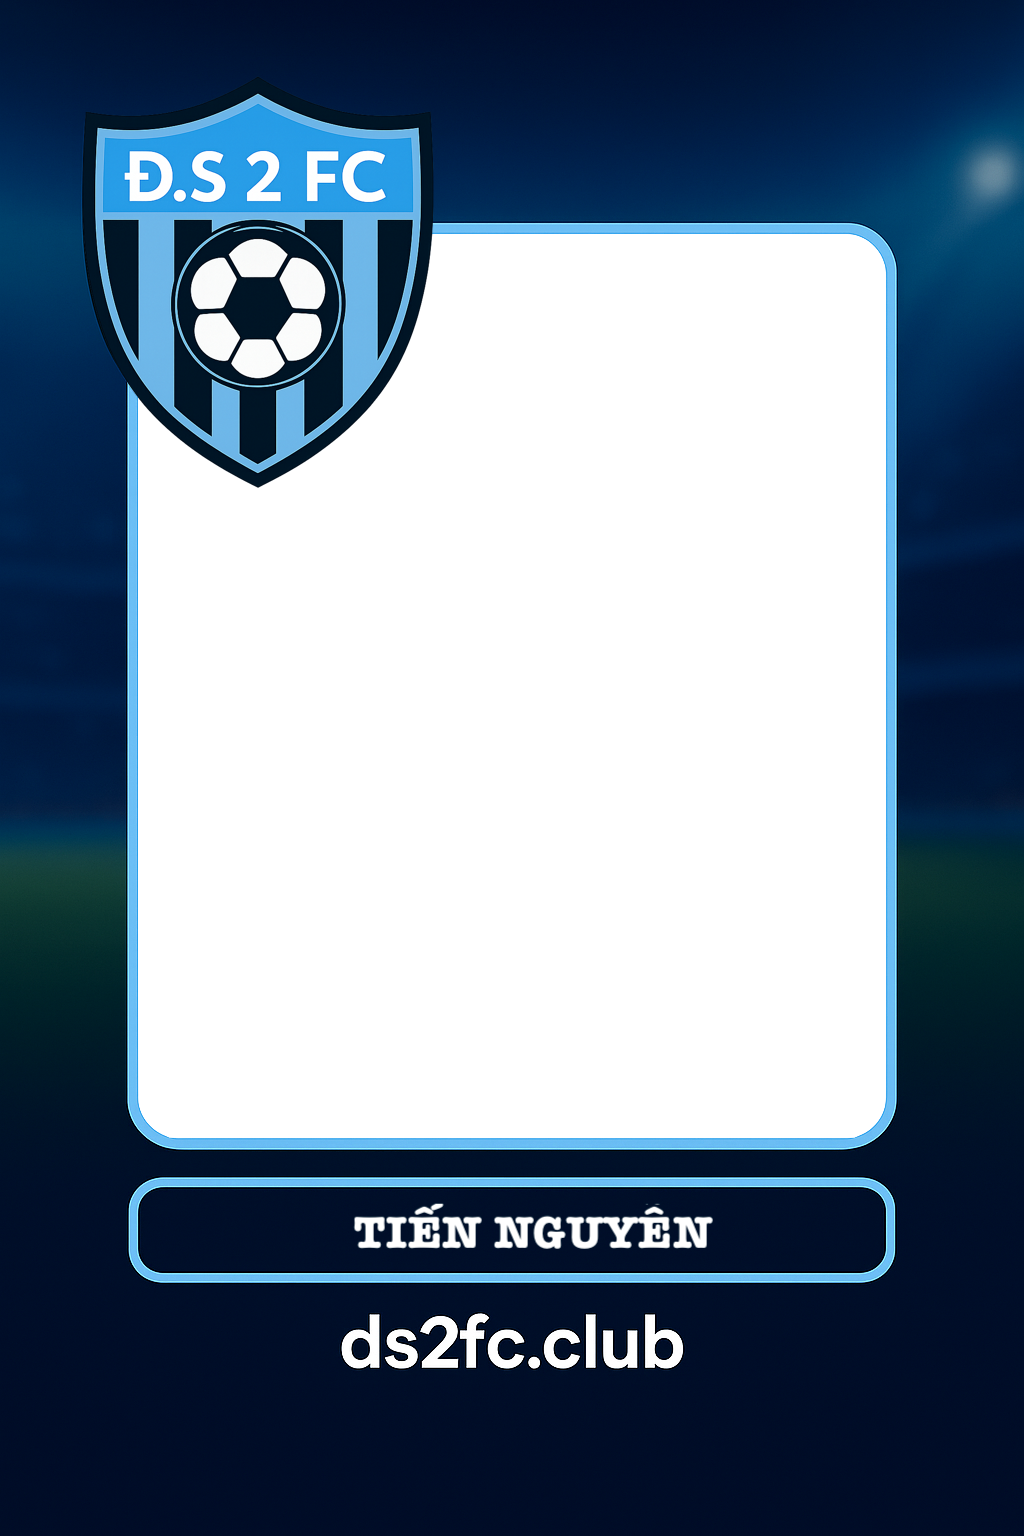
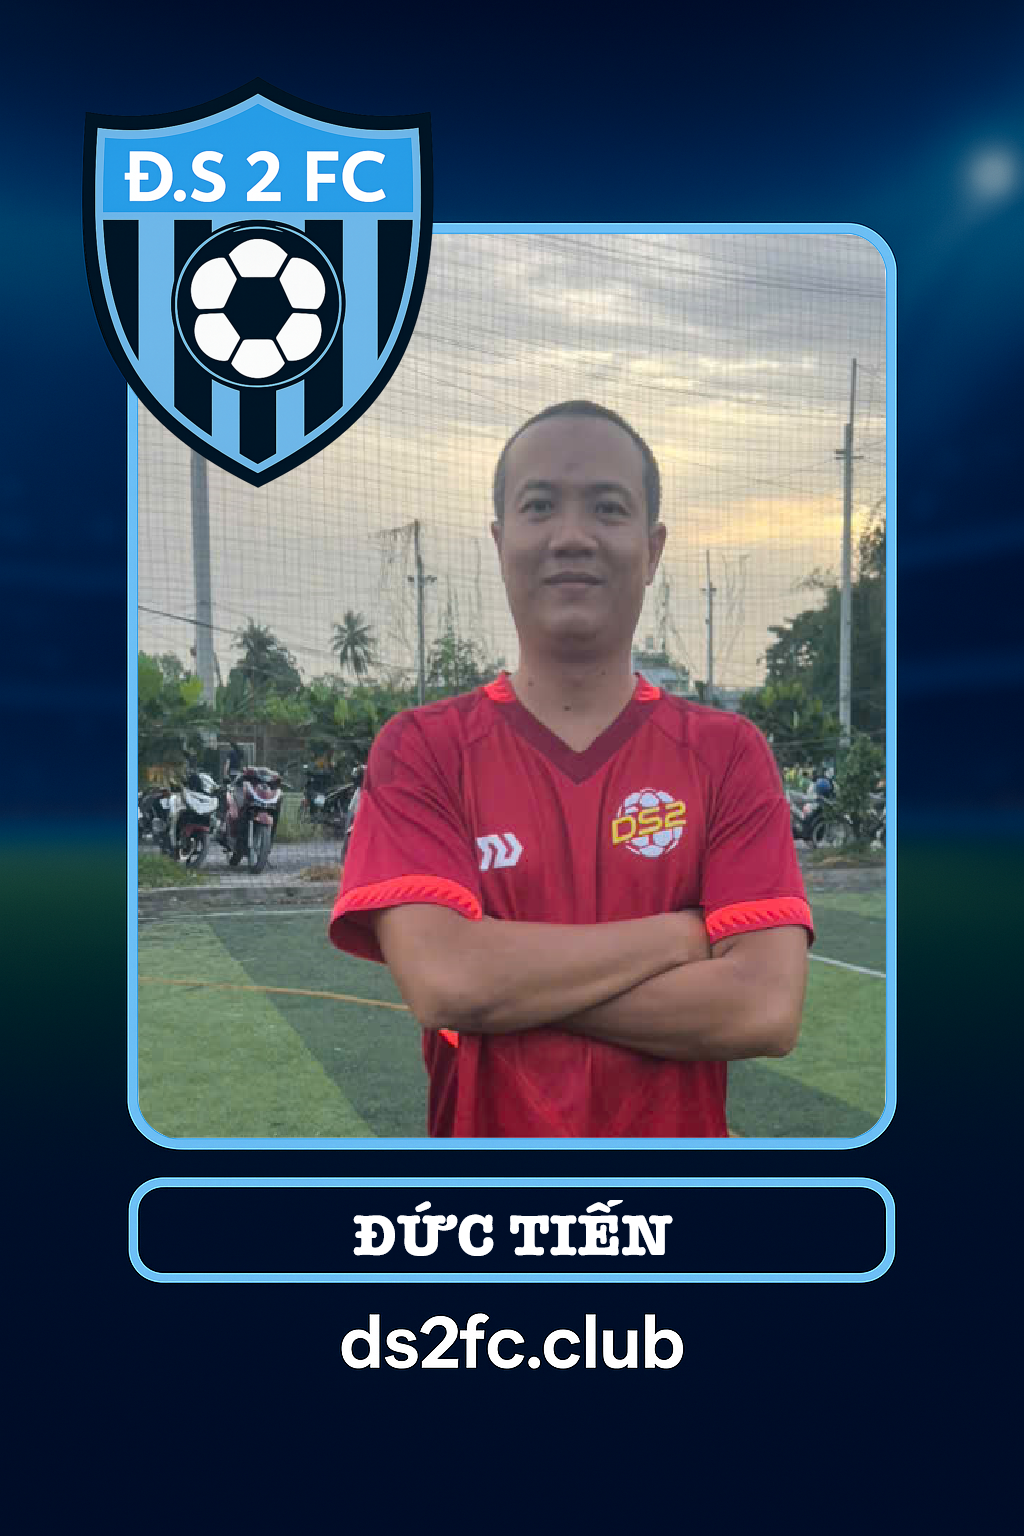
Deploy ds2fc on Thu Jul 24 12:33:16 SEAST 2025

diff --git a/flutter_service_worker.js b/flutter_service_worker.js
@@ -52,12 +52,12 @@ const RESOURCES = {"assets/AssetManifest.bin": "ec9d71df0f550d30891159817688bbe6
 "assets/assets/images/players/nguyenthanhtam.png": "332c8e6b47972f8a6c28a2a6ed286d75",
 "assets/assets/images/players/nguyenthuy.png": "a561e06332fc48ee9c950f27323e66f7",
 "assets/assets/images/players/quanglam.png": "b45af4a2a5358509b4fd854030835aa5",
-"assets/assets/images/players/quangteo.png": "32f03e501999d3421c694dd0d69fd8ee",
+"assets/assets/images/players/quangteo.png": "7da9ea2c2590e8caaa8c942d2022ad94",
 "assets/assets/images/players/sinhgia2020.jpg": "30a8c77b6bff3e7c8bff0eaf124739fa",
 "assets/assets/images/players/thanhtra.jpg": "b94c534d540a86c28a12e825d6085d43",
 "assets/assets/images/players/thanhtra.png": "9aa635aadc7f44edf57631e36842fd06",
 "assets/assets/images/players/thoale.jpg": "10b92daf6ffb7ffeeab7f54965e84c5e",
-"assets/assets/images/players/tiennguyen.png": "deecf50f74669dccabca15b25caed714",
+"assets/assets/images/players/tiennguyen.png": "5ab162b5eeb5d3ec1e1e7141c9d17d5e",
 "assets/assets/images/players/tranhung.png": "eeeeb1c5a34ddb437d2d72eaddfd72fd",
 "assets/assets/images/players/trannguyenthailand.jpg": "0f8c315ed498a6a203b6692bd03e3459",
 "assets/assets/images/players/trungle.jpg": "c494794fb4fbb98a75fbfcbdc68e7117",
@@ -90,7 +90,7 @@ const RESOURCES = {"assets/AssetManifest.bin": "ec9d71df0f550d30891159817688bbe6
 "canvaskit/skwasm.wasm": "39dd80367a4e71582d234948adc521c0",
 "favicon.png": "4e1c00567e5fd8927d26abb9fc4010e8",
 "flutter.js": "83d881c1dbb6d6bcd6b42e274605b69c",
-"flutter_bootstrap.js": "892e41482562498a008a050b7cf35a98",
+"flutter_bootstrap.js": "90f1fdf327deba6ce866a690e8d5817a",
 "icons/Icon-192.png": "b858eec0d5dfa6aa3181e070f0afdded",
 "icons/Icon-512.png": "90395b7ead299b7700b1ed3760e1d29e",
 "icons/Icon-maskable-192.png": "b858eec0d5dfa6aa3181e070f0afdded",

diff --git a/flutter_bootstrap.js b/flutter_bootstrap.js
@@ -39,6 +39,6 @@ _flutter.buildConfig = {"engineRevision":"8cd19e509d6bece8ccd74aef027c4ca9473630
 
 _flutter.loader.load({
   serviceWorkerSettings: {
-    serviceWorkerVersion: "3107190247"
+    serviceWorkerVersion: "2240990927"
   }
 });
